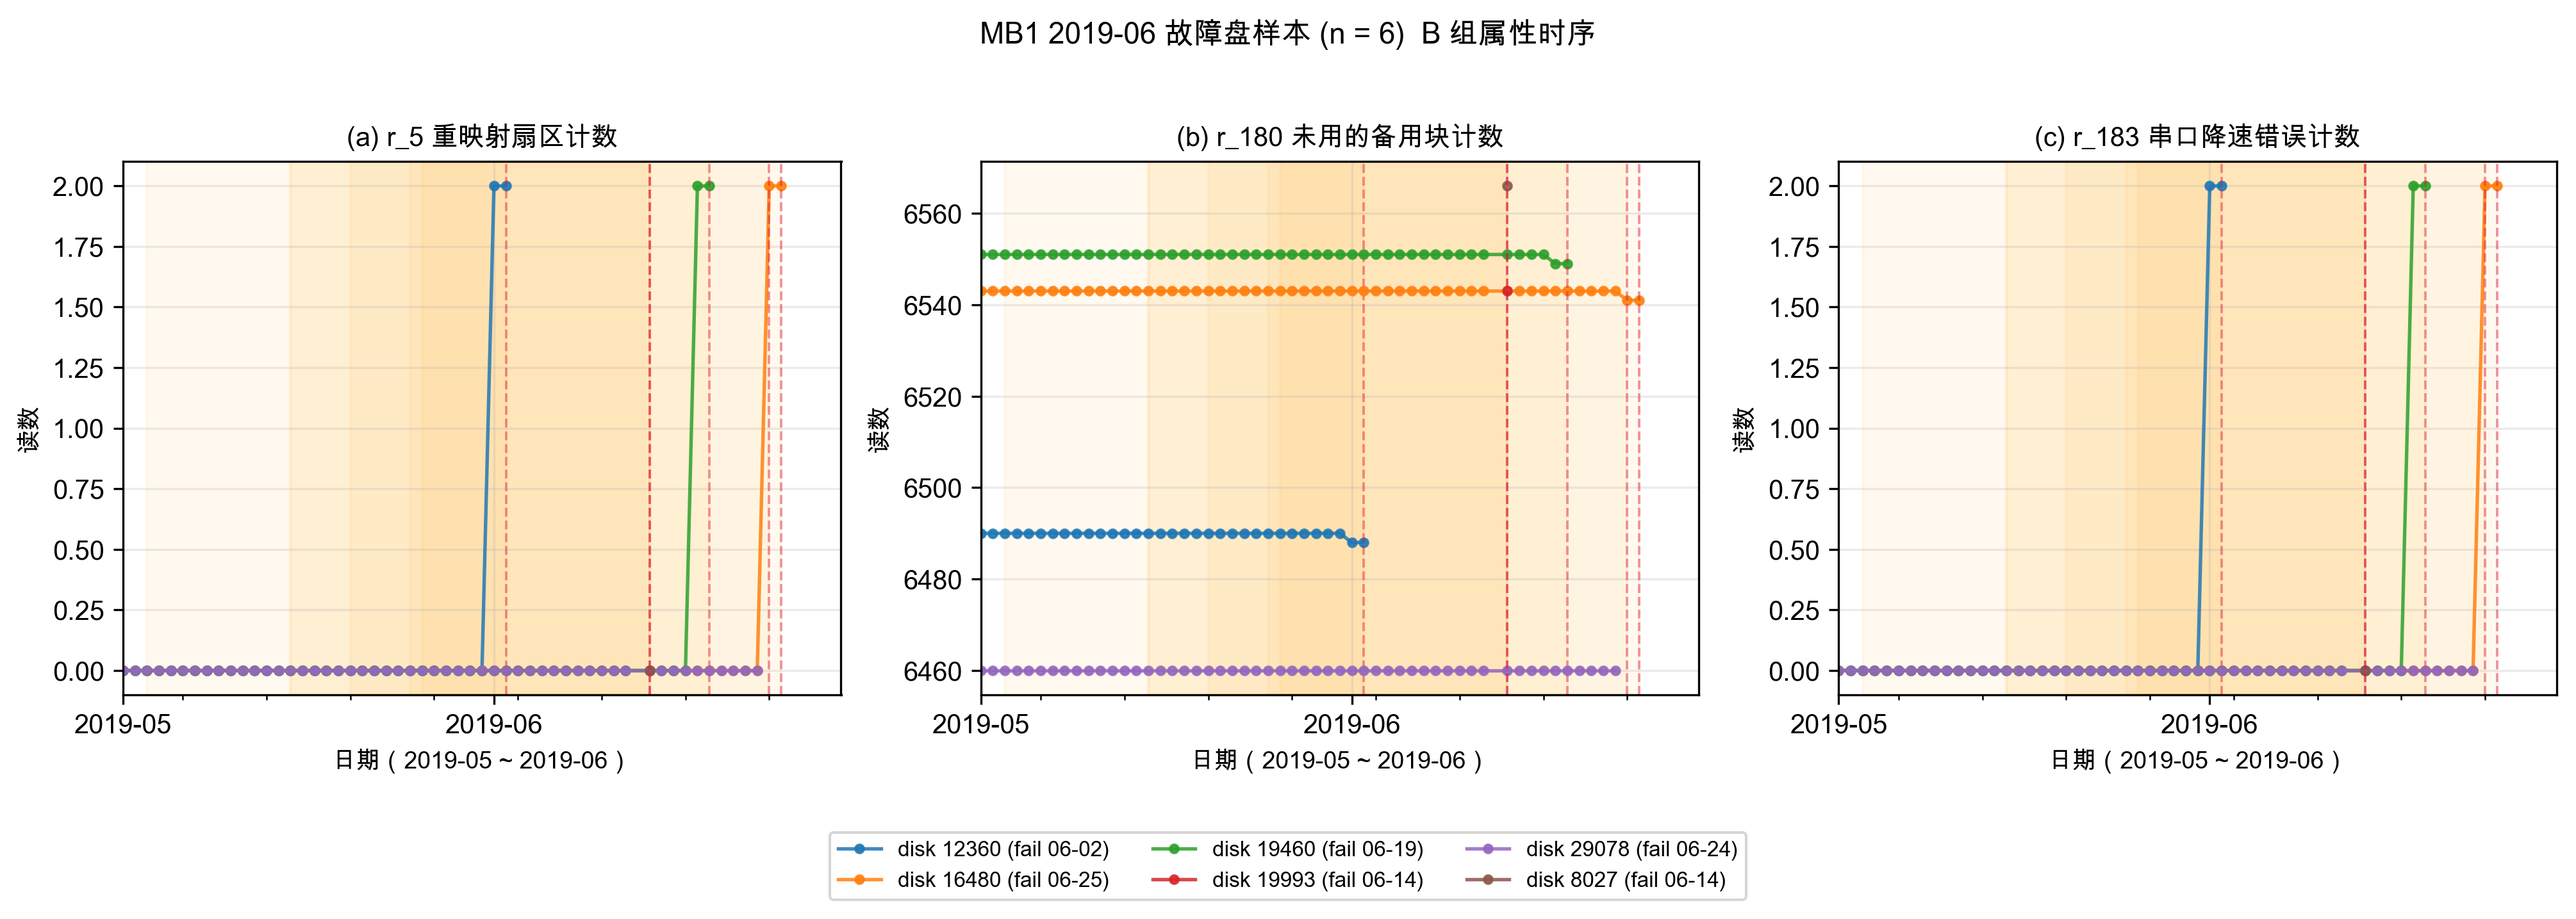
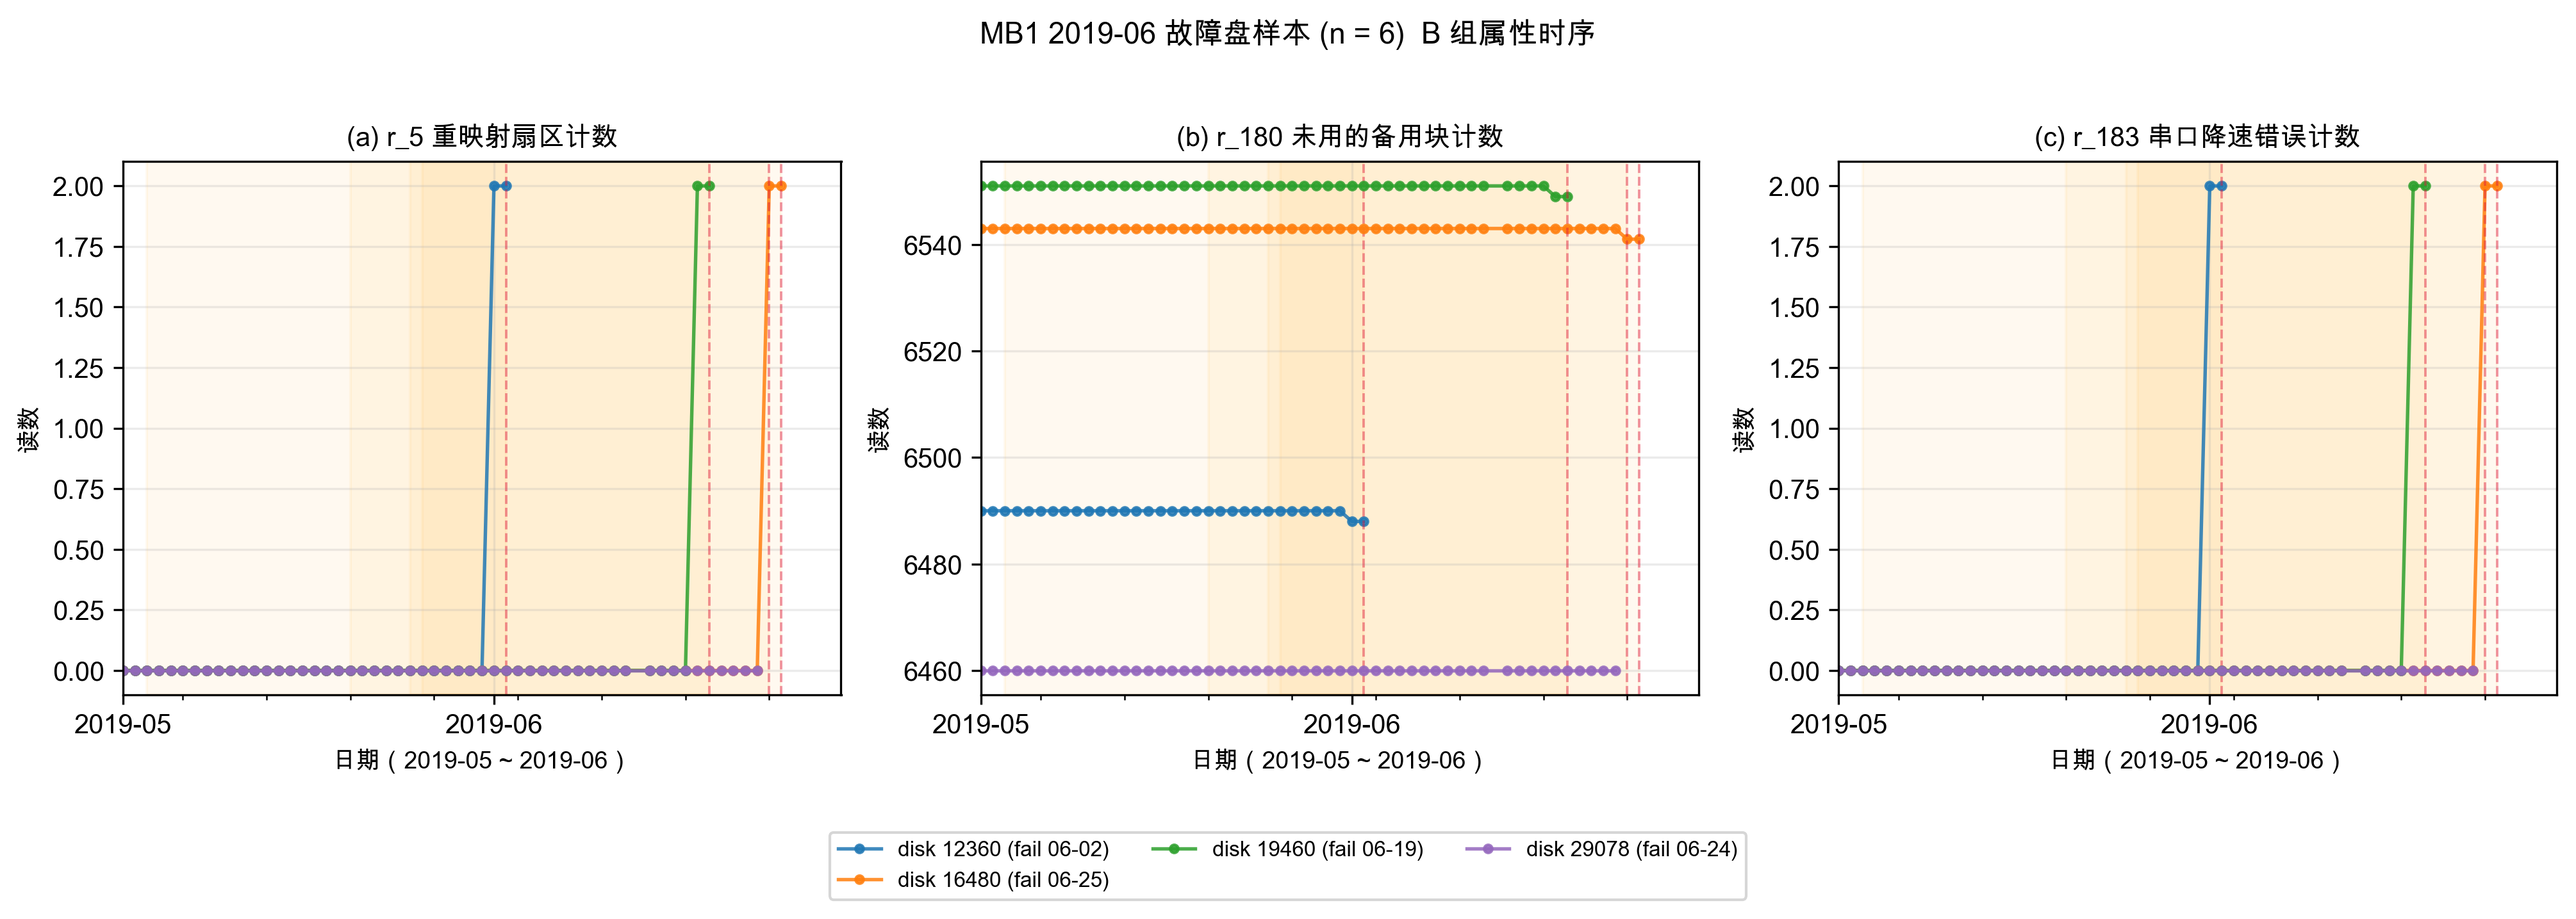
更新数据

diff --git a/body/graduate/content.tex b/body/graduate/content.tex
@@ -631,8 +631,8 @@ $\rho_s$ 取值范围为 $[-1,1]$，$|\rho_s|$ 越大表示单调相关越强。
         故障后无效样本 & 故障盘删除 $d_s>t_{\mathrm{fail}}$ 的样本（保留故障日） & \multicolumn{2}{c}{样本级删除} \\
         有效观测日数不足盘 & $n_{\mathrm{obs},i}<30$（建模有效区间内） & \multicolumn{2}{c}{盘级删除} \\ 
         重度缺失盘 & $G_{\max}>30$ 或 $\mathrm{cov}<0.5$ & \multicolumn{2}{c}{盘级删除} \\
-        保留盘数 & 进入补全与建模 & 38\,270 & 41\,022 \\
-        保留故障盘 & 2018--2019 可标注故障 & 1\,580 & 548 \\
+        保留盘数 & 进入补全与建模 & 38\,812 & 43\,128 \\
+        保留故障盘 & 2018--2019 可标注故障 & 1\,132 & 460 \\
         \bottomrule
     \end{tabularx}
 \end{table}
@@ -713,8 +713,8 @@ $\rho_s$ 取值范围为 $[-1,1]$，$|\rho_s|$ 越大表示单调相关越强。
 \end{figure}
 
 在全量保留盘上进一步统计跳变命中率：于锚点日前 $W$ 日窗口内，仅在相邻原始观测日间计算 $|\Delta|$，若 $|\Delta|>0$ 则计为跳变；故障盘锚点取 $t_{\mathrm{fail}}$，健康盘取 $t_{\mathrm{last}}$。
-表~\ref{tab:b-group-jump-summary} 显示，MB1 主力属性 5/180/183 在 $W=30$ 日命中率约 62.5\%，健康盘不足 0.1\%；MB2 同窗口仅约 14.0\%，信号整体更弱。
-该表按单属性统计命中率；当扩展至全部 B 组读数列时，约 64\%（MB1）/ 21\%（MB2）故障盘在窗口内至少出现一次跳变（见图~\ref{fig:first-jump-pmf}）。
+表~\ref{tab:b-group-jump-summary} 显示，MB1 主力属性 5/180/183 在 $W=30$ 日命中率约 68.0\%，健康盘不足 0.1\%；MB2 同窗口仅约 12.5\%，信号整体更弱。
+该表按单属性统计命中率；当扩展至全部 B 组读数列时，约 70\%（MB1）/ 20\%（MB2）故障盘在窗口内至少出现一次跳变（见图~\ref{fig:first-jump-pmf}）。
 
 \begin{table}[htbp]
     \centering
@@ -725,17 +725,17 @@ $\rho_s$ 取值范围为 $[-1,1]$，$|\rho_s|$ 越大表示单调相关越强。
         \toprule
         B 组属性 & $W$/天 & MB1 故障盘 & MB1 健康盘 & MB2 故障盘 & MB2 健康盘 \\
         \midrule
-        \multirow{3}{*}{5、180、183} & 7  & 52.3 & 0.0 & 13.1 & 0.0 \\
-        & 30 & 62.5 & 0.1 & 14.0 & 0.1 \\
-        & 90 & 75.7 & 0.1 & 14.3 & 0.1 \\
+        \multirow{3}{*}{5、180、183} & 7  & 65.1 & 0.0 & 11.8 & 0.0 \\
+        & 30 & 68.0 & 0.1 & 12.5 & 0.0 \\
+        & 90 & 72.7 & 0.1 & 11.6 & 0.1 \\
         \addlinespace[2pt]
-        \multirow{3}{*}{$n_{180}$} & 7  & 49.2 & 0.0 & 12.3 & 0.0 \\
-        & 30 & 56.0 & 0.1 & 12.9 & 0.0 \\
-        & 90 & 72.3 & 0.1 & 13.3 & 0.0 \\
+        \multirow{3}{*}{$n_{180}$} & 7  & 64.7 & 0.0 & 11.6 & 0.0 \\
+        & 30 & 67.4 & 0.1 & 12.1 & 0.0 \\
+        & 90 & 71.9 & 0.1 & 11.1 & 0.1 \\
         \addlinespace[2pt]
-        \multirow{3}{*}{199} & 7  & 0.8 & 0.1 & 5.6 & 0.2 \\
-        & 30 & 0.8 & 0.1 & 6.4 & 0.4 \\
-        & 90 & 0.8 & 0.2 & 6.4 & 0.8 \\
+        \multirow{3}{*}{199} & 7  & 0.7 & 0.0 & 5.4 & 0.1 \\
+        & 30 & 0.9 & 0.1 & 6.6 & 0.3 \\
+        & 90 & 1.0 & 0.1 & 5.8 & 0.6 \\
         \bottomrule
     \end{tabularx}
 
@@ -760,11 +760,11 @@ $\rho_s$ 取值范围为 $[-1,1]$，$|\rho_s|$ 越大表示单调相关越强。
 \end{figure}
 
 图~\ref{fig:first-jump-pmf} 以全部故障盘为分母，给出首跳距故障日 $d$ 的概率质量分布：左侧"无跳变"柱对应静默盘，其余柱对应首跳恰落在距故障日 $d$ 天的故障盘，各柱占比之和为 1。
-MB1 / MB2 中 36.0\% / 79.2\% 故障盘为静默盘；除"无跳变"柱外，$d=1$ 柱占比最高（占全部故障盘 45.9\% / 6.9\%），$d\le 3$ 累计占 51.1\% / 14.6\%，表明有跳变的故障盘其首跳亦多集中于近故障短窗，为后文以可调回看窗口构造突变特征（\S\ref{sec:chap3-mutation-features}）提供依据。
+MB1 / MB2 中 30.2\% / 80.7\% 故障盘为静默盘；除"无跳变"柱外，$d=1$ 柱占比最高（占全部故障盘 60.6\% / 7.4\%），$d\le 3$ 累计占 65.7\% / 14.1\%，表明有跳变的故障盘其首跳亦多集中于近故障短窗，为后文以可调回看窗口构造突变特征（\S\ref{sec:chap3-mutation-features}）提供依据。
 
-为区分"预警窗内无信号"与"全寿命内无信号"，表~\ref{tab:first-jump-window-compare} 在故障盘上并列统计 $(t_{\mathrm{fail}}-30,\, t_{\mathrm{fail}}]$ 与 $(t_{\mathrm{first}},\, t_{\mathrm{fail}}]$ 两窗口（后者中位跨度约 349/377 天）。
-MB1 全观测期内约 80.8\% 故障盘至少出现一次 B 组跳变（30 日内为 64.0\%），其中 16.8\% 仅在 30 日窗之外出现首跳，说明部分静默盘属于早期跳变、后期长期零基线；
-MB2 两窗口结果接近（23.8\% / 20.8\% 有跳变），静默占比仍高达 76.2\%，表明该型号 B 组前兆整体微弱而非单纯由 30 日截断造成。
+为区分"预警窗内无信号"与"全寿命内无信号"，表~\ref{tab:first-jump-window-compare} 在故障盘上并列统计 $(t_{\mathrm{fail}}-30,\, t_{\mathrm{fail}}]$ 与 $(t_{\mathrm{first}},\, t_{\mathrm{fail}}]$ 两窗口（后者中位跨度约 340/283 天）。
+MB1 全观测期内约 76.1\% 故障盘至少出现一次 B 组跳变（30 日内为 69.8\%），其中 6.4\% 仅在 30 日窗之外出现首跳，说明部分静默盘属于早期跳变、后期长期零基线；
+MB2 两窗口结果接近（22.0\% / 19.3\% 有跳变），静默占比仍高达 78.0\%，表明该型号 B 组前兆整体微弱而非单纯由 30 日截断造成。
 
 \begin{table}[htbp]
     \centering
@@ -777,14 +777,14 @@ MB2 两窗口结果接近（23.8\% / 20.8\% 有跳变），静默占比仍高达
         \cmidrule(lr){3-4} \cmidrule(lr){5-6}
         & & 有跳变 & 静默 & 有跳变 & 静默 \\
         \midrule
-        MB1 & 1\,526 & 64.0\% & 36.0\% & 80.8\% & 19.2\% \\
-        MB2 & 534 & 20.8\% & 79.2\% & 23.8\% & 76.2\% \\
+        MB1 & 1\,131 & 69.8\% & 30.2\% & 76.1\% & 23.9\% \\
+        MB2 & 460 & 19.3\% & 80.7\% & 22.0\% & 78.0\% \\
         \bottomrule
     \end{tabularx}
 
     \vspace{2pt}
     \begin{minipage}{\linewidth}
-        \footnotesize 注：跳变定义与表~\ref{tab:b-group-jump-summary} 一致；MB1 中 16.8\%（257 盘）仅在全观测期有跳变、30 日内静默；MB2 对应 3.0\%（16 盘）。
+        \footnotesize 注：跳变定义与表~\ref{tab:b-group-jump-summary} 一致；MB1 中 6.4\%（72 盘）仅在全观测期有跳变、30 日内静默；MB2 对应 2.6\%（12 盘）。
     \end{minipage}
 \end{table}
 
